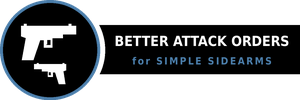
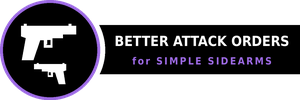
docs: BAO accent to violet; badge+preview under one committed generator
Steel blue sat next to Loadout Quality's teal and read as a washed-out
copy. Violet is the family's fifth distinct pole (olive/amber/red/teal/
violet). gen_preview.py folded into Media/badge_gen.py, which now emits
both the badge and the Workshop preview.

Claude-Session: https://claude.ai/code/session_01S7UhaiJhucrnfzBHvweEyL

Changed region(s): [[0.0, 0.0, 0.36, 1.0], [0.42, 0.57, 0.9, 0.66]]

diff --git a/Media/badge_gen.py b/Media/badge_gen.py
@@ -1,0 +1,106 @@
+#!/usr/bin/env python3
+"""BAO badge + Workshop preview.
+
+Same geometry system as the CE+SS suite badges (300x100 circle + full-width bar
++ ring knockout; 512 preview) so the family reads as one set. Identity: VIOLET
+accent — deliberately far from teal (Loadout Quality), amber (Loadouts), olive
+(Patch) and red (Tactics); steel blue was tried first and read as a washed-out
+teal. Art is self-drawn pistols, never CE-derived: this is a Simple Sidearms
+mod with no CE dependency.
+
+Run from Media/: python3 badge_gen.py
+"""
+import os
+from PIL import Image, ImageDraw, ImageFont
+
+HERE = os.path.dirname(os.path.abspath(__file__))
+FONT = "/usr/share/fonts/dejavu-sans-fonts/DejaVuSansCondensed-Bold.ttf"
+BLACK = (0, 0, 0, 255)
+WHITE = (255, 255, 255, 255)
+VIOLET = (154, 104, 224, 255)
+
+
+def pistol(d, ox, oy, s, flip=False):
+    """Semi-auto pistol silhouette pointing right; ox,oy = top-left of slide."""
+    def P(pts):
+        out = []
+        for x, y in pts:
+            if flip:
+                x = 60 - x
+            out.append((ox + x * s, oy + y * s))
+        return out
+    body = [(0, 4), (3, 4), (3, 2), (6, 2), (6, 4), (50, 4), (50, 2), (53, 2),
+            (53, 4), (58, 4), (58, 13), (44, 13), (44, 17), (33, 17), (33, 27),
+            (24, 27), (24, 19), (20, 19), (13, 40), (1, 40), (5, 17), (0, 15)]
+    d.polygon(P(body), fill=WHITE)
+    d.polygon(P([(27, 19), (31, 19), (31, 24), (27, 24)]), fill=BLACK)
+    d.polygon(P([(25.5, 19), (27.5, 19), (27.5, 23.5), (25.5, 22.5)]), fill=WHITE)
+
+
+def render_badge():
+    S = 4
+    W, H = 300 * S, 100 * S
+    bar = Image.new("RGBA", (W, H), (0, 0, 0, 0))
+    db = ImageDraw.Draw(bar)
+    db.rectangle([0, 25 * S, 300 * S, 74 * S], fill=BLACK)
+    hole = Image.new("L", (W, H), 0)
+    dh = ImageDraw.Draw(hole)
+    cx, cy, r, gap = 50 * S, 50 * S, 50 * S, 5 * S
+    dh.ellipse([cx - (r + gap), cy - (r + gap), cx + (r + gap), cy + (r + gap)], fill=255)
+    dh.rectangle([0, 0, 5 * S, H], fill=255)
+    bar.putalpha(Image.composite(Image.new("L", (W, H), 0), bar.getchannel("A"), hole))
+
+    img = Image.new("RGBA", (W, H), (0, 0, 0, 0))
+    img.alpha_composite(bar)
+    d = ImageDraw.Draw(img)
+    d.ellipse([cx - r, cy - r, cx + r, cy + r], fill=BLACK)
+    d.ellipse([cx - r, cy - r, cx + r, cy + r], outline=VIOLET, width=3 * S)
+    pistol(d, 21 * S, 22 * S, 0.95 * S)
+    pistol(d, 33 * S, 62 * S, 0.55 * S, flip=True)
+
+    f1 = ImageFont.truetype(FONT, 14 * S)
+    f2 = ImageFont.truetype(FONT, 10 * S)
+    CX = 202 * S
+    t1 = "BETTER ATTACK ORDERS"
+    w1 = d.textlength(t1, font=f1)
+    d.text((CX - w1 / 2, 33 * S), t1, font=f1, fill=WHITE)
+    t2 = "for SIMPLE SIDEARMS"
+    K = 1.6 * S
+    w2 = sum(d.textlength(c, font=f2) + K for c in t2) - K
+    x = CX - w2 / 2
+    for ch in t2:
+        d.text((x, 55 * S), ch, font=f2, fill=VIOLET)
+        x += d.textlength(ch, font=f2) + K
+    img.resize((300, 100), Image.LANCZOS).save(os.path.join(HERE, "Badge_BAO.png"))
+    print("wrote Badge_BAO.png")
+
+
+def render_preview():
+    P = 4
+    W = H = 512 * P
+    img = Image.new("RGBA", (W, H), (12, 12, 12, 255))
+    d = ImageDraw.Draw(img)
+    cx, cy, r = 256 * P, 190 * P, 140 * P
+    d.ellipse([cx - r, cy - r, cx + r, cy + r], fill=BLACK, outline=VIOLET, width=8 * P)
+
+    # the deadlock pair: one in hand, one waiting
+    pistol(d, (256 - 95) * P, 120 * P, 3.1 * P)
+    pistol(d, (256 - 60) * P, 225 * P, 1.9 * P, flip=True)
+
+    f1 = ImageFont.truetype(FONT, 36 * P)
+    f2 = ImageFont.truetype(FONT, 30 * P)
+    f3 = ImageFont.truetype(FONT, 20 * P)
+    for text, font, y, color in [
+        ("BETTER ATTACK ORDERS", f1, 362 * P, WHITE),
+        ("for SIMPLE SIDEARMS", f2, 406 * P, WHITE),
+        ("EVERY CARRIED WEAPON COUNTS", f3, 456 * P, VIOLET),
+    ]:
+        w = d.textlength(text, font=font)
+        d.text(((W - w) / 2, y), text, font=font, fill=color)
+    img.resize((512, 512), Image.LANCZOS).save(os.path.join(HERE, "..", "About", "Preview.png"))
+    print("wrote About/Preview.png")
+
+
+if __name__ == "__main__":
+    render_badge()
+    render_preview()
